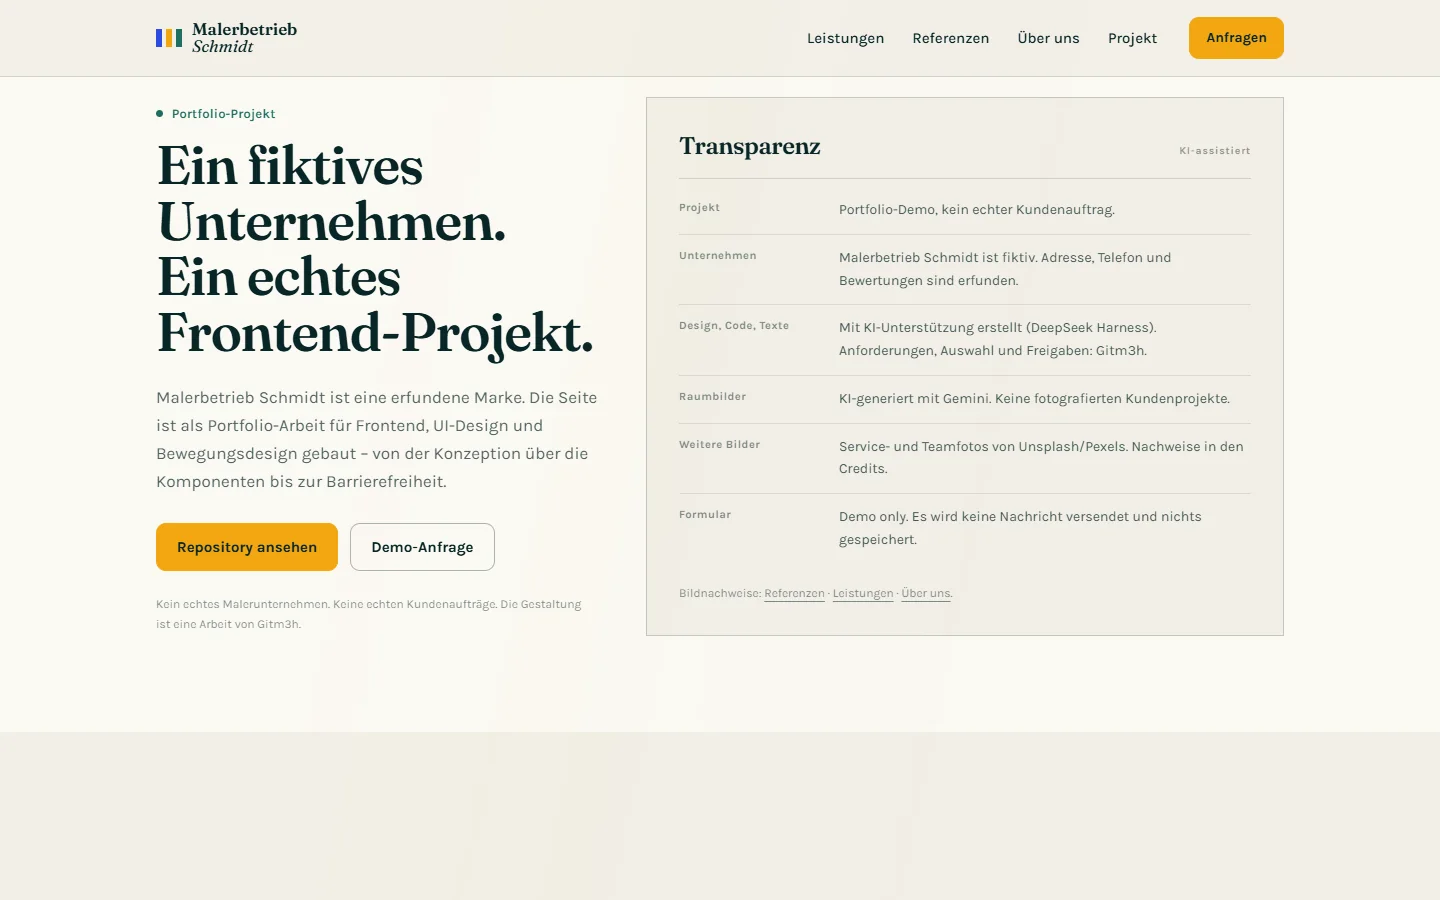
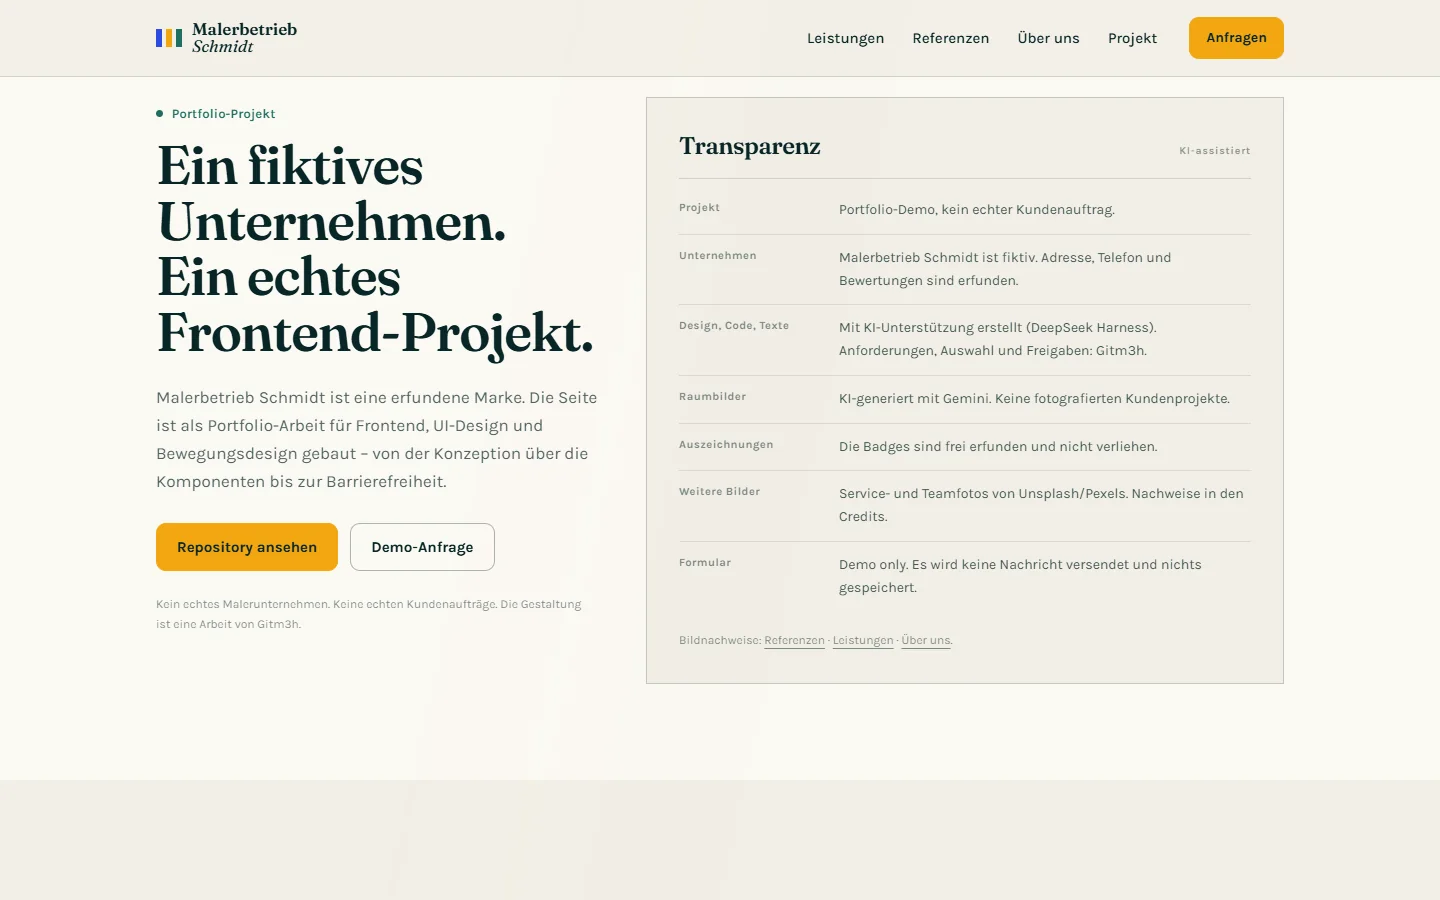
feat: add fictional awards strip and remove extra services CTA

diff --git a/src/components/Auszeichnungen.jsx b/src/components/Auszeichnungen.jsx
@@ -1,0 +1,112 @@
+const badges = [
+  {
+    overline: 'Seit 1998',
+    title: 'Meisterbetrieb',
+    sub: 'Maler-Innung Hamburg',
+    color: '#F3A712',
+    text: '#082527',
+  },
+  {
+    overline: 'Kundenstimmen',
+    title: '5,0 Sterne',
+    sub: '27 Bewertungen',
+    color: '#1F6F61',
+    text: '#FFFFFF',
+  },
+  {
+    overline: 'Auszeichnung',
+    title: 'Top 2025',
+    sub: 'Hamburger Handwerk',
+    color: '#B02A4A',
+    text: '#FFFFFF',
+  },
+  {
+    overline: 'Eigenes Team',
+    title: '12 Fachkräfte',
+    sub: 'Keine Subunternehmer',
+    color: '#2C4BDF',
+    text: '#FFFFFF',
+  },
+  {
+    overline: 'Seit 1998',
+    title: '1.000+',
+    sub: 'abgeschlossene Projekte',
+    color: '#E76F51',
+    text: '#082527',
+  },
+  {
+    overline: 'Material',
+    title: 'Low-VOC',
+    sub: 'emissionsarm arbeiten',
+    color: '#A7CFC9',
+    text: '#082527',
+  },
+]
+
+function Seal({ color, text }) {
+  return (
+    <span
+      className="flex h-12 w-12 shrink-0 items-center justify-center rounded-full border-2 border-current/30 sm:h-14 sm:w-14"
+      style={{ backgroundColor: color, color: text }}
+      aria-hidden="true"
+    >
+      <svg viewBox="0 0 32 32" className="h-6 w-6 sm:h-7 sm:w-7" fill="none" stroke="currentColor" strokeWidth="1.7">
+        <path d="M16 3.5 19 9l6.2 1-4.4 4.5 1 6.2-5.8-2.9-5.8 2.9 1-6.2L6.8 10 13 9l3-5.5Z" strokeLinejoin="round" />
+        <path d="m11.5 22 .8 6.5L16 26l3.7 2.5.8-6.5" strokeLinecap="round" strokeLinejoin="round" />
+      </svg>
+    </span>
+  )
+}
+
+function Badge({ badge, hidden = false }) {
+  return (
+    <article
+      className="reward-badge flex w-[min(78vw,18rem)] shrink-0 items-center gap-4 border border-ink/15 bg-paper px-4 py-3"
+      aria-hidden={hidden || undefined}
+    >
+      <Seal color={badge.color} text={badge.text} />
+      <span className="min-w-0">
+        <span className="block text-[0.6rem] font-bold tracking-[0.05em] text-ink/45">{badge.overline}</span>
+        <span className="mt-1 block font-display text-lg font-semibold leading-none">{badge.title}</span>
+        <span className="mt-2 block text-xs leading-snug text-ink/60">{badge.sub}</span>
+      </span>
+    </article>
+  )
+}
+
+export default function Auszeichnungen() {
+  return (
+    <section
+      id="auszeichnungen"
+      className="overflow-hidden border-y border-ink/10 bg-chalk-2 py-14 sm:py-16"
+      aria-labelledby="auszeichnungen-title"
+    >
+      <div className="container-main flex flex-col gap-5 sm:flex-row sm:items-end sm:justify-between">
+        <div>
+          <p className="kicker">Fiktive Auszeichnungen</p>
+          <h2 id="auszeichnungen-title" className="mt-3 font-display text-[clamp(1.8rem,4vw,2.8rem)] font-semibold leading-[1.02]">
+            Was uns auszeichnet.
+          </h2>
+        </div>
+        <p className="max-w-[34ch] text-xs leading-relaxed text-ink/50">
+          Beispielhafte Siegel für dieses Portfolio-Projekt. Keine echten Awards.
+        </p>
+      </div>
+
+      <div className="rewards-marquee mt-8" role="region" aria-label="Fiktive Auszeichnungen">
+        <div className="rewards-track">
+          <div className="rewards-group">
+            {badges.map(badge => (
+              <Badge key={badge.title} badge={badge} />
+            ))}
+          </div>
+          <div className="rewards-group" aria-hidden="true">
+            {badges.map(badge => (
+              <Badge key={`${badge.title}-copy`} badge={badge} hidden />
+            ))}
+          </div>
+        </div>
+      </div>
+    </section>
+  )
+}

diff --git a/src/index.css b/src/index.css
@@ -547,6 +547,35 @@
   padding-right: 1rem;
 }
 
+/* ── Awards strip ──────────────────────────────────────────── */
+.rewards-marquee {
+  overflow: hidden;
+  -webkit-mask-image: linear-gradient(90deg, transparent 0, #000 4%, #000 96%, transparent 100%);
+  mask-image: linear-gradient(90deg, transparent 0, #000 4%, #000 96%, transparent 100%);
+}
+
+.rewards-track {
+  display: flex;
+  width: max-content;
+  animation: rewardsDrift 52s linear infinite;
+  will-change: transform;
+}
+
+.rewards-group {
+  display: flex;
+  gap: 1rem;
+  padding-right: 1rem;
+}
+
+.rewards-marquee:hover .rewards-track {
+  animation-play-state: paused;
+}
+
+@keyframes rewardsDrift {
+  from { transform: translateX(-50%); }
+  to { transform: translateX(0); }
+}
+
 /* ── Link whoosh ───────────────────────────────────────────── */
 .whoosh {
   position: fixed;
@@ -829,6 +858,9 @@
   .review-track { animation: none !important; }
   .review-group[aria-hidden="true"] { display: none; }
   .review-marquee { overflow-x: auto; }
+  .rewards-track { animation: none !important; }
+  .rewards-group[aria-hidden="true"] { display: none; }
+  .rewards-marquee { overflow-x: auto; }
   .whoosh { display: none !important; }
 }
 

diff --git a/src/App.jsx b/src/App.jsx
@@ -5,6 +5,7 @@ import Leistungen from './components/Leistungen'
 import Referenzen from './components/Referenzen'
 import UeberUns from './components/UeberUns'
 import Kundenstimmen from './components/Kundenstimmen'
+import Auszeichnungen from './components/Auszeichnungen'
 import Projekt from './components/Projekt'
 import Kontakt from './components/Kontakt'
 import Footer from './components/Footer'
@@ -29,6 +30,7 @@ export default function App() {
         <Referenzen />
         <UeberUns />
         <Kundenstimmen />
+        <Auszeichnungen />
         <Projekt />
         <Kontakt key={selectedService?.at ?? 'neu'} selectedService={selectedService} />
       </main>

diff --git a/src/components/Projekt.jsx b/src/components/Projekt.jsx
@@ -5,6 +5,7 @@ const aiFacts = [
   ['Unternehmen', 'Malerbetrieb Schmidt ist fiktiv. Adresse, Telefon und Bewertungen sind erfunden.'],
   ['Design, Code, Texte', 'Mit KI-Unterstützung erstellt (DeepSeek Harness). Anforderungen, Auswahl und Freigaben: Gitm3h.'],
   ['Raumbilder', 'KI-generiert mit Gemini. Keine fotografierten Kundenprojekte.'],
+  ['Auszeichnungen', 'Die Badges sind frei erfunden und nicht verliehen.'],
   ['Weitere Bilder', 'Service- und Teamfotos von Unsplash/Pexels. Nachweise in den Credits.'],
   ['Formular', 'Demo only. Es wird keine Nachricht versendet und nichts gespeichert.'],
 ]

diff --git a/src/components/Leistungen.jsx b/src/components/Leistungen.jsx
@@ -140,12 +140,6 @@ export default function Leistungen({ onSelectService = () => {} }) {
             ))}
           </div>
         </Reveal>
-
-        <Reveal className="mt-8 sm:mt-12">
-          <a href="#kontakt" className="link-paint" onClick={() => onSelectService('')}>
-            Alle Leistungen anfragen
-          </a>
-        </Reveal>
       </div>
     </section>
   )

diff --git a/docs/DESIGN-SPEC.md b/docs/DESIGN-SPEC.md
@@ -95,7 +95,7 @@ Constraints:
 
 ### 2.3 Layout concept
 
-Page order stays: Hero → Leistungen → Referenzen → Über uns → Kundenstimmen → Projekt → Kontakt → Footer.
+Page order stays: Hero → Leistungen → Referenzen → Über uns → Kundenstimmen → Auszeichnungen → Projekt → Kontakt → Footer.
 
 Desktop hero, 12-column grid, content max 1200px:
 
@@ -213,7 +213,7 @@ Four chips:
 - White text on ultramarine, verdigris, madder; ink text on saffron.
 - Hover: `translateY(-6px)`, the 1px rule grows to 3px; 200ms. Focus-visible: 2px ink outline with 3px offset. The whole chip is the link to `#kontakt`, with the service name in the accessible label.
 - Clicking a chip stores the chosen service and preselects it in the contact form. The form shows a removable “Anfrage: …” chip and a hidden `leistung` field.
-- Bottom CTA: text link “Alle Leistungen anfragen” with a painted underline, ultramarine; clears the service preselection.
+- No bottom “Alle Leistungen anfragen” link. The four chips and the contact CTA are enough.
 
 ### 3.4 Referenzen
 
@@ -256,7 +256,15 @@ Featured sample board:
 - The scroll region is focusable with `aria-label="Kundenbewertungen – seitlich scrollbar"`. The duplicate card set is `aria-hidden`.
 - Reduced motion: auto-scroll off, duplicate set hidden, manual scroll only.
 
-### 3.7 Projekt
+### 3.7 Auszeichnungen
+
+- Chalk-2 ground, directly under Kundenstimmen. Kicker “Fiktive Auszeichnungen”. H2 “Was uns auszeichnet.” Note: “Beispielhafte Siegel für dieses Portfolio-Projekt. Keine echten Awards.”
+- Six badge cards: Meisterbetrieb, 5,0 Sterne, Top 2025, 12 Fachkräfte, 1.000+, Low-VOC. Each has a circular seal, overline, title, and subline.
+- Duplicated badge set loops continuously **rightward**, opposite the reviews. Hover pauses. Edge mask softens entry/exit.
+- Reduced motion: animation off, duplicate hidden, manual horizontal scroll.
+- Badges are fictional and are also listed as invented in the Projekt transparency panel.
+
+### 3.8 Projekt
 
 - Paper ground, bordered top, between Kundenstimmen and Kontakt. Kicker “Portfolio-Projekt”. H2 “Ein fiktives Unternehmen. Ein echtes Frontend-Projekt.”
 - Copy states clearly that Malerbetrieb Schmidt is fictional and that the page is portfolio work for frontend, UI, and motion design.
@@ -265,7 +273,7 @@ Featured sample board:
 - AI disclosure: design/code/copy produced with DeepSeek Harness; requirements, selection, and approvals by Gitm3h. Room images generated with Gemini. Reviews invented. Service/team photos Unsplash/Pexels. Form is demo-only.
 - Link to the three credit files. No real client, address, phone, or testimonials are claimed.
 
-### 3.8 Kontakt
+### 3.9 Kontakt
 
 - Chalk ground. Kicker “Jetzt anfragen”. H2 “Was soll gestrichen werden?” Intro: “Kostenloser Kostenvoranschlag. Wir melden uns innerhalb von 24 Stunden.” Small note: “Demo-Formular: Es wird keine Nachricht versendet und nichts gespeichert.”
 - Form panel: white-ish `#FBF9F3` with 1px ink rule, no shadow, no 2xl radius. 8px radius maximum.
@@ -277,7 +285,7 @@ Featured sample board:
 - Sidebar: phone block in ultramarine with chalk text; address, opening hours, and email as open blocks separated by rules, not four rounded cards.
 - Keep the existing simulated send; do not invent a backend.
 
-### 3.9 Footer and Impressum
+### 3.10 Footer and Impressum
 
 - Footer petrol ink, chalk/70 text. Wordmark, one-sentence description, phone.
 - Columns: Einzugsgebiet (Altona, Ottensen, Bahrenfeld, Othmarschen, Nienstedten), Schnellzugriff (including Projekt), Impressum & Datenschutz.
@@ -357,6 +365,7 @@ Height: `clamp(72px, 10vw, 160px)`. The layers overlap so the colors read as a c
 - Wave: continuous ambient motion.
 - Hero pigment deck: idle close/reorder/re-fan every ~5s on all viewports; hover pauses and draws a card.
 - Reviews: continuous auto-scroll at about 45px/s; hover/focus pauses; native manual scroll always works.
+- Awards: continuous rightward drift, opposite the reviews; hover pauses. Disabled under reduced motion.
 - Link whoosh: 680ms speed-streak overlay on navigable link clicks and once per manual scroll gesture. A link click suppresses the scroll trigger for 1s.
 - Section headers: a 420ms opacity/translate reveal once, triggered at 15% visibility, only for the section kicker+heading, not every child.
 - Featured board: one interaction hint per page load.
@@ -407,6 +416,7 @@ Hard requirements:
 | `maler-schmidt-app/src/components/Referenzen.jsx` | Featured slider, case chips above board, keyboard/pointer support, hint, KI-Illustration badge |
 | `maler-schmidt-app/src/components/Projekt.jsx` | Fictional-business and AI-usage disclosure section |
 | `maler-schmidt-app/src/components/Kundenstimmen.jsx` | Six illustrative Google-style reviews, auto-scrolling native scroll strip, hidden scrollbar, hover/focus pause |
+| `maler-schmidt-app/src/components/Auszeichnungen.jsx` | Six fictional award badges, rightward loop opposite reviews, hover pause |
 | `maler-schmidt-app/src/components/Whoosh.jsx` | Full-screen speed-streak transition on navigable link clicks and manual scroll gestures |
 | `maler-schmidt-app/.github/workflows/publish.yml` | Build and push `dist/` to `gh-pages` on every push to `main`; point Pages at it |
 | `maler-schmidt-app/docs/*` | Portfolio preview screenshots used by the GitHub README |

diff --git a/README.md b/README.md
@@ -48,6 +48,7 @@ The transparency section is part of the live page at `#projekt`, not hidden in t
 | Design exploration, code, copy | Produced with DeepSeek Harness under human direction |
 | Room before/after images | Generated with Gemini; selected and supplied by Gitm3h |
 | Google-style reviews | Written and invented for the demo |
+| Awards/badges | Invented; no real awards were given |
 | Service and team photos | Unsplash/Pexels, credited in the source tree |
 | Requirements, review, approval | Gitm3h |
 
@@ -60,6 +61,7 @@ The AI did not invent a real client, a real project, or real testimonials. The s
 - Accessible before/after slider with keyboard, pointer, and touch support.
 - Service cards linked to a preselected enquiry.
 - Horizontally scrollable review strip with hidden scrollbar and auto-scroll.
+- Fictional awards strip that drifts opposite the reviews, with hover pause.
 - Link/scroll speed-streak effect, disabled for reduced motion.
 - Mobile navigation sheet with focus trap.
 - Impressum/Datenschutz modal with focus trap.
